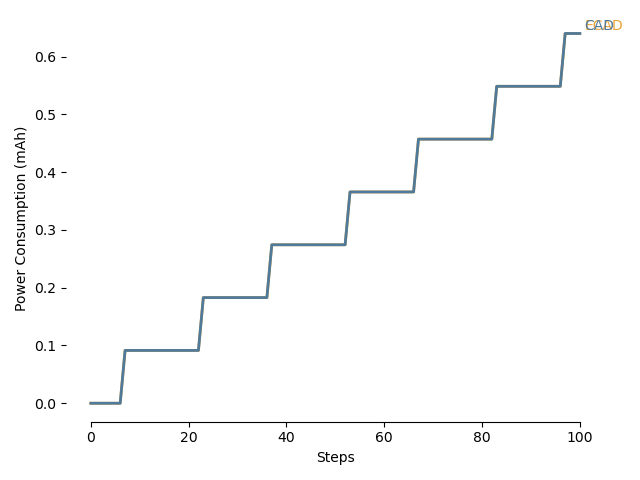
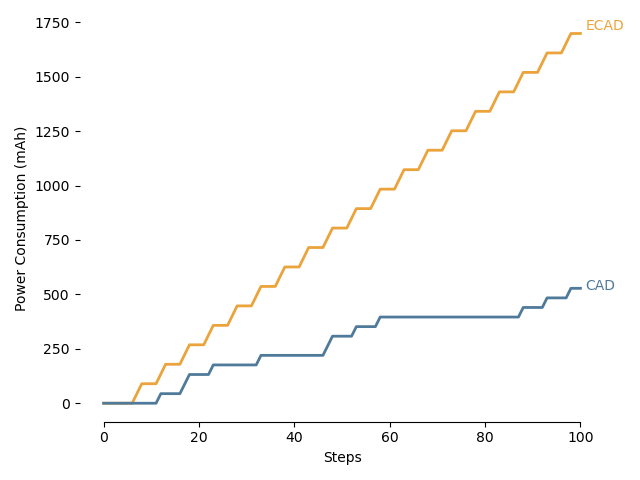
power consumption update

diff --git a/main.py b/main.py
@@ -85,69 +85,109 @@ def main(part1, part2, part3, part4):
         #TODO: plot the power consumption by mapping the reward to 1,0,-1 and convert them to the power consumptions
         numOfArms = 30
         numOfRuns = 1000
-        maxSteps = 101
+        maxSteps = 301
         optimalArm = 15
-        period = 30
+        period = 20
         fraudArm = 20
         armRewards = np.zeros((numOfArms, maxSteps))
         cadTimes = np.arange(1, maxSteps+1, 1)
-        mab = MultiArmBandit(numOfArms, period=period, optimalArm=optimalArm, numOfFrauds=0, noNoise=True, numOfTrueArms=0)
-        for i in range(numOfArms):
-            reward = []
-            for t in range(maxSteps):
-                reward.append(mab.pull_arm(i, t))
-            armRewards[i,:] = np.array(reward)
-        
-        # set the armRewards array element to 0 if the reward is bigger than -0.5 and smaller than 0.5
-        for i in range(numOfArms):
-            for t in range(maxSteps):
-                if armRewards[i,t] > -0.99 and armRewards[i,t] < 0.99:
-                    armRewards[i,t] = 0
-                elif armRewards[i,t] > 0.99:
-                    armRewards[i,t] = 1
-                else:
-                    armRewards[i,t] = -1
+        mab = MultiArmBandit(numOfArms, period=period, optimalArm=optimalArm, numOfFrauds=1, noNoise=True, numOfTrueArms=0, times=maxSteps)
+        #mab.plotReward(numOfArms,fraudArm,optimalArm,maxSteps)
+        experiment_runner = ExperimentRunner(num_runs=numOfRuns, max_steps=maxSteps, optimalAlgName='Optimal', figSaveDir="PowerConsumption")
+        ECADConsumption = []
+        CADConsumption = []
+        ncb = NewConfidenceBound(mab=mab, period=period, max_steps=maxSteps)
+        experiment_runner.runExperiments_part1(alg=ncb, alg_name=f'ECAD')
+        resECAD = experiment_runner.all_results_part1.loc['ECAD']
+        resECAD = np.array(resECAD)
+        CADConsumption = np.array(mab.getFlatReward())
 
-                if t % 2 == 0:
-                    armRewards[i,t] = 0
+        for i in range(len(CADConsumption)):
+            if CADConsumption[i] > 0.99:
+                CADConsumption[i] = 1
+            if CADConsumption[i] < -0.99:
+                CADConsumption[i] = -1
+
+        for i in range(len(resECAD)):
+            resECAD[i] = min([1, -1, 0], key=lambda x: abs(resECAD[i] - x))
+
+        for i in range(len(resECAD)):
+            if resECAD[i] > 0.99:
+                resECAD[i] = 1
         
-        # plot the arm rewards
+        reduced_CADConsumption = []
+        last_value = None
+        for value in CADConsumption:
+            if value == -1 and last_value == -1:
+                continue
+            reduced_CADConsumption.append(value)
+            last_value = value
+
+        CADConsumption = np.array(reduced_CADConsumption)
+
+        reduced_resECAD = []
+        last_value = None
+        for value in resECAD:
+            if value == 1 and last_value == 1:
+                reduced_resECAD.append(0)
+                continue
+            reduced_resECAD.append(value)
+            last_value = value
+
+        resECAD = np.array(reduced_resECAD)
+
+        for i in range(len(CADConsumption)):
+            if CADConsumption[i] == 1:
+                # Find the closest index in resECAD that is 1
+                closest_index = None
+                min_distance = float('inf')
+                for j in range(len(resECAD)):
+                    if resECAD[j] == 1 and abs(i - j) < min_distance:
+                        closest_index = j
+                        min_distance = abs(i - j)
+                
+                if closest_index is not None:
+                    # Set the value at the closest index to 1 and the previous index to 0
+                    CADConsumption[closest_index] = 1
+                    if closest_index > 0:
+                        CADConsumption[i] = 0
+
+        
+        for i in range(len(CADConsumption)):
+            if CADConsumption[i] == 1:
+                CADConsumption[i] = 1 * (4.6 + 40 + 0.03794)
+            elif CADConsumption[i] == -1:
+                CADConsumption[i] = 1 * (4.6 + 40 + 0.03794)
+            else:
+                CADConsumption[i] = 0 + 0.002 + 0.0012 + 0.03794
+        for i in range(len(resECAD)):
+            if resECAD[i] == 1:
+                ECADConsumption.append(1 * (4.6 + 40 + 0.03794))
+            elif resECAD[i] == -1:
+                ECADConsumption.append(1 * (4.6 + 40 + 0.03794))
+            else:
+                ECADConsumption.append(0 + 0.002 + 0.0012 + 0.03794)
+
         fig, ax = plt.subplots()
-        ax.set_title("Arm Rewards")
-        ax.set_xlabel("Time")
-        ax.set_ylabel("Arm")
-        cax = ax.matshow(armRewards, cmap='coolwarm', aspect='auto')
-        fig.colorbar(cax)
+        plt.plot(ECADConsumption, label='ECAD')
+        plt.plot(CADConsumption, label='CAD')
         plt.show()
 
-        noAcConsumption = 0.0000032
-        cadActivity = 0.00203794
-        rxActivity = 44.6
 
-        cumWorConsumptionForECAD = np.zeros(maxSteps)
-        cumWorConsumptionForCAD = np.zeros(maxSteps)
+        ECADConsumption = np.cumsum(ECADConsumption)
+        CADConsumption = np.cumsum(CADConsumption)
 
-        for i in range(maxSteps):
-            if armRewards[optimalArm,i] == 1:
-                cumWorConsumptionForECAD[i] = 
-            elif armRewards[fraudArm,i] == -1:
-                cumWorConsumptionForCAD[i] = rxActivity
-            
-        for i in range(1, maxSteps):
-            cumWorConsumptionForECAD[i] = cumWorConsumptionForECAD[i-1] + cumWorConsumptionForECAD[i]
-            cumWorConsumptionForCAD[i] = cumWorConsumptionForCAD[i-1] + cumWorConsumptionForCAD[i]
-        
         colors = ["#EBA33B", "#507A99"]
         fig, ax = plt.subplots()
         ax.set_xlabel("Time")
         ax.set_ylabel("mAh")
-        ax.plot(cumWorConsumptionForECAD, label=f'ECAD',
+        ax.plot(ECADConsumption, label=f'ECAD',
             color = colors[0], linestyle="-", linewidth=2)
-        ax.text(maxSteps, cumWorConsumptionForECAD[-1] * 1.02, f'ECAD',
+        ax.text(maxSteps, ECADConsumption[-1] * 1.02, f'ECAD',
             color=colors[0], fontweight="normal", horizontalalignment="left", verticalalignment="center")
-        ax.plot(cumWorConsumptionForCAD, label=f'CAD',
+        ax.plot(CADConsumption, label=f'CAD',
             color = colors[1], linestyle="-", linewidth=2)
-        ax.text(maxSteps, cumWorConsumptionForCAD[-1] * 1.02, f'CAD',
+        ax.text(maxSteps, CADConsumption[-1] * 1.02, f'CAD',
             color=colors[1], fontweight="normal", horizontalalignment="left", verticalalignment="center")
         
         ax.spines["right"].set_visible(False)
@@ -190,15 +230,5 @@ def main(part1, part2, part3, part4):
         
         experiment_runner.plotIncreasingNumOfArmsReward(numOfArms[-1], 2*len(numOfArms), numOfArms)
         experiment_runner.plotIncreasingNumOfArmsRegret(numOfArms[-1], 2*len(numOfArms), numOfArms)
-    
-    if part5==True:
-        numOfArms = 100
-        numOfRuns = 1000
-        maxSteps = 1001
-        optimalArms = np.arange(1, 101, 1)
-        period = 100
-        experiment_runner = ExperimentRunner(num_runs=numOfRuns, max_steps=maxSteps, optimalAlgName='Optimal', figSaveDir="IncreasingPeriod")
-
-        mab = MultiArmBandit(numOfArms, period=period, optimalArm=optimalArm, numOfFrauds=0, numOfTrueArms=0)
         
-main(part1=True, part2=True, part3=True, part4=True)
+main(part1=False, part2=False, part3=True, part4=False)

diff --git a/classes/MultiArmBandit.py b/classes/MultiArmBandit.py
@@ -7,7 +7,7 @@ import matplotlib.colors
 
 
 class MultiArmBandit:
-    def __init__(self, num_arms, period, optimalArm, numOfFrauds = 0, numOfTrueArms = 0, noNoise=False, debug=False):
+    def __init__(self, num_arms, period, optimalArm, numOfFrauds = 0, numOfTrueArms = 0, noNoise=False, times = 0, debug=False):
         self.num_arms = num_arms
         self.possible_actions = np.zeros(num_arms)
         self.period = period
@@ -16,6 +16,7 @@ class MultiArmBandit:
         self.numOfFrauds = numOfFrauds
         self.noNoise = noNoise
         self.numOfTrueArms = numOfTrueArms
+        self.times = times
 
         # Ini mean values
         for i in np.arange(num_arms):
@@ -61,7 +62,7 @@ class MultiArmBandit:
                     r_t += noise
             else:
                 r_t = 0.1 * np.sin((2 * np.pi / T) * t + phase_shift)
-                r_t = -abs(r_t)
+                r_t = abs(r_t)
                 if not self.noNoise:
                     r_t += noise
         elif self.numOfTrueArms != 0:
@@ -79,11 +80,20 @@ class MultiArmBandit:
                 r_t = -abs(r_t)
                 if not self.noNoise:
                     r_t += noise
-
-        
-        
-
         return r_t
+
+    def getFlatReward(self):
+        reward = []
+        for t in range(self.times):
+            arm_rewards = [self.pull_arm(i, t) for i in range(self.num_arms)]
+            closest_reward = min(arm_rewards, key=lambda x: min(abs(x - 1), abs(x + 1), abs(x)))
+            reward.append(closest_reward)
+        
+        reward = np.array(reward)
+
+
+        return reward
+
 
     def print_actions(self):
         print(f'Possible actions - {self.possible_actions}')

diff --git a/helpers/ExperimentRunner.py b/helpers/ExperimentRunner.py
@@ -29,15 +29,6 @@ class ExperimentRunner:
         mean_per_timestep = mean_per_timestep.set_index('alg_name')
         self.all_results_part1 = pd.concat(
             [self.all_results_part1, pd.DataFrame(mean_per_timestep)], axis=0)
-        
-    
-    def compareWithCADandPlot(self):
-        cadScanTimes = np.arange(1, self.max_steps, 1)
-        
-
-        
-
-    
 
     def plot_part1(self):
         fig, ax = plt.subplots(
